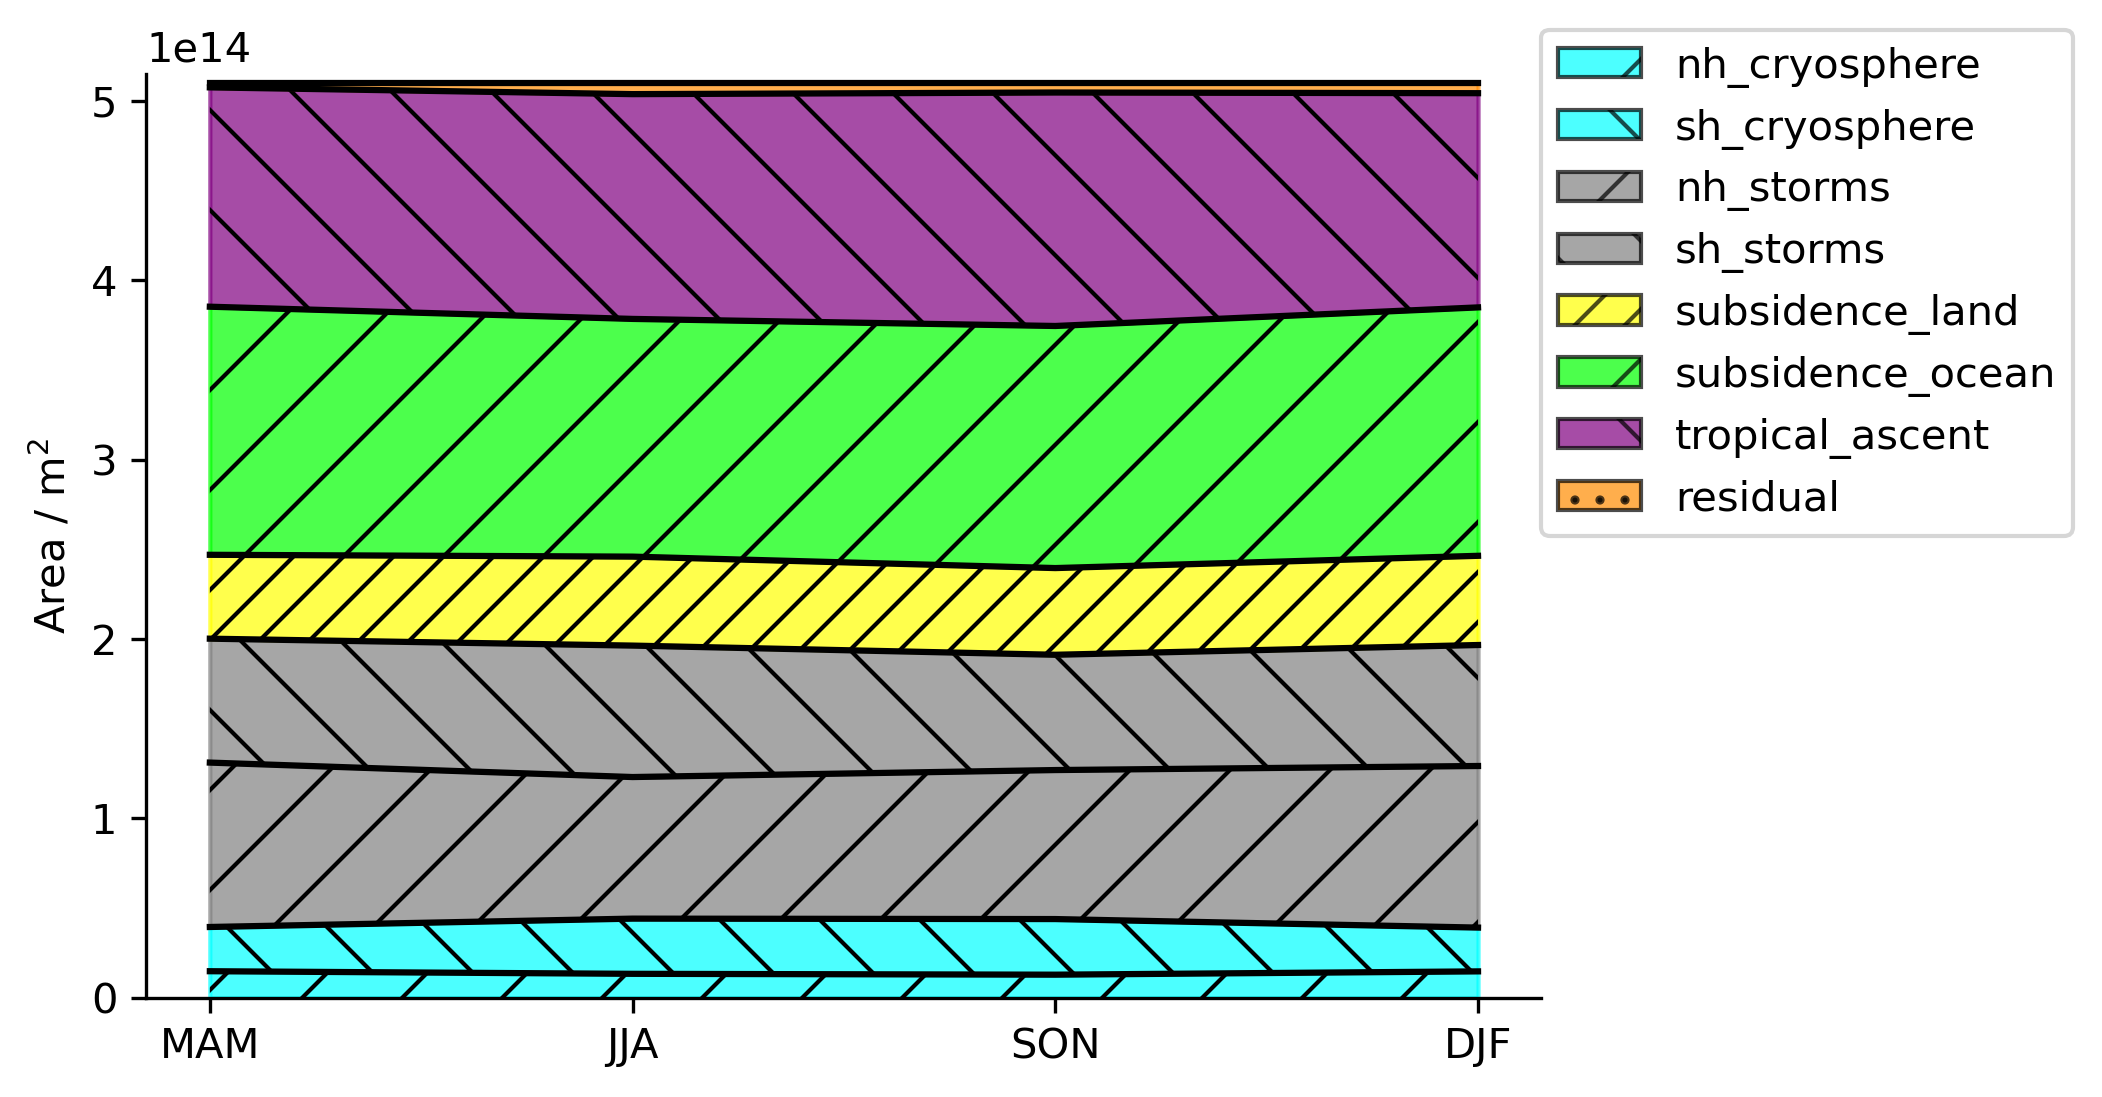
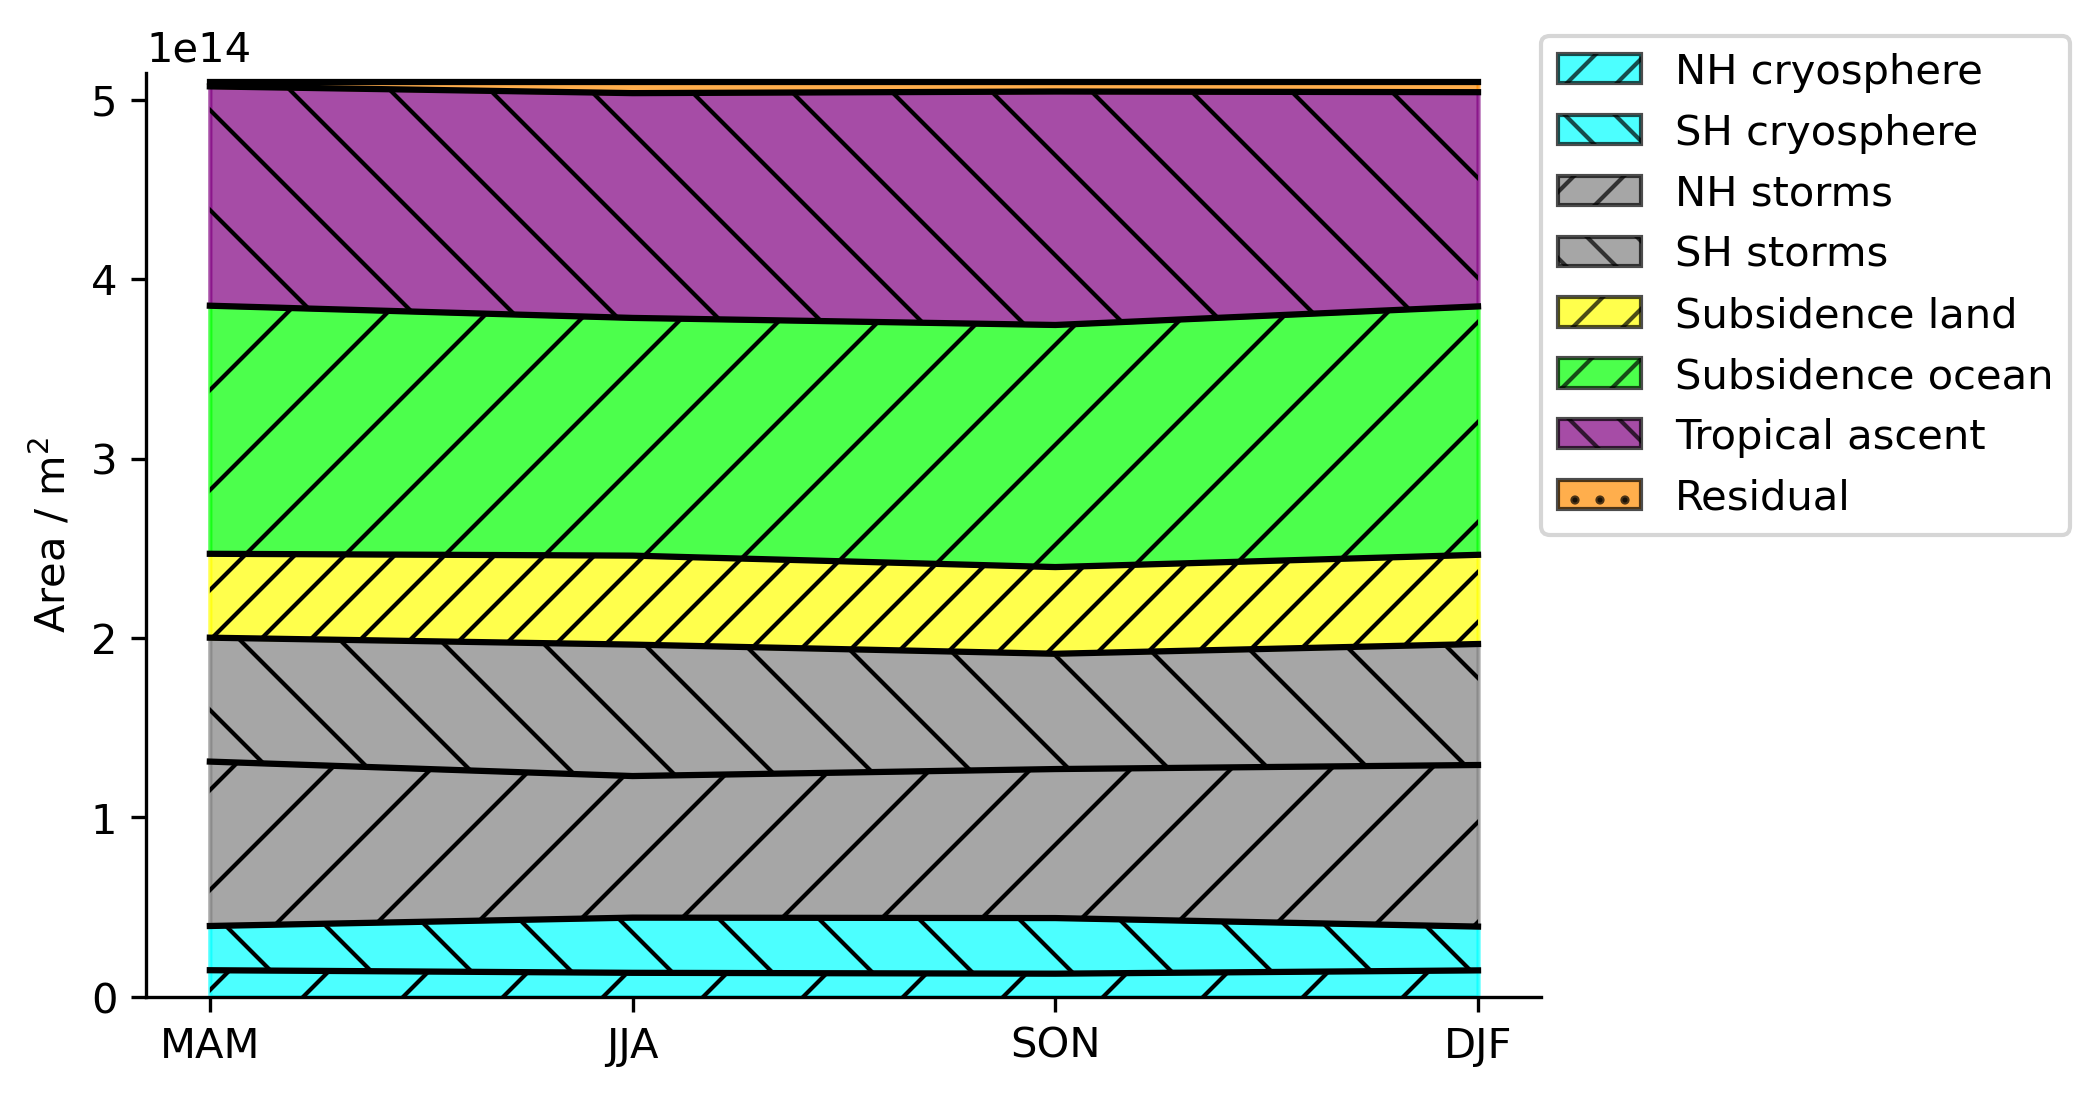
add nice legend to area bar -- propose different masks display

diff --git a/make_figs/masks.py b/make_figs/masks.py
@@ -6,8 +6,8 @@ import cartopy.crs as ccrs
 import matplotlib.patches as mpatches
 
 from utils import global_mean
-from utils.plotting import plot_colormesh, plot_coasts_grid, plot_colorbar
-from utils.plotting import colors, hatches, edge_band
+from utils.plotting import plot_coasts_grid
+from utils.plotting import colors, hatches, edge_band, hatches_legend
 
 
 net = xr.open_mfdataset(["pp/ceres_trends.nc"]).net.load()
@@ -25,14 +25,13 @@ for i,s in enumerate(["MAM","JJA","SON","DJF"]):
     da = net.sel(season=s)
     trend_gm = global_mean(da).values
     
-    cf = plot_colormesh(ax, da)
+    # cf = plot_colormesh(ax, da)
     plot_coasts_grid(ax)
     ax.set_title(letter[i]+") "+s+f" = {trend_gm:0.2f}", position=(0.35, 1.0))
 
     for name in regime_names:
         data = masks[name].sel(season=s).astype(int)
         band = edge_band(data, n=2)
-
         # 1. Colored boundary band (replaces contour)
         ax.contourf(
             data.lon, data.lat, band,
@@ -40,21 +39,14 @@ for i,s in enumerate(["MAM","JJA","SON","DJF"]):
             colors=[colors[name]],
             transform=ccrs.PlateCarree(),
         )
-
-        # 2. Hatched regions with colored hatches
         ax.contourf(
             data.lon, data.lat, data,
             levels=[0.5, 1],
-            colors='none',
-            hatches=[hatches[name]],
+            colors=[colors[name]],
             transform=ccrs.PlateCarree(),
+            alpha=0.2,
         )
-        # trick to color the hatches
-        for collection in ax.collections[-1:]:  # last contourf
-            collection.set_edgecolor(colors[name])
-            collection.set_linewidth(0.0)  # remove polygon edges
     
-plot_colorbar(fig, cf, "Net EEI trend / W m$^{-2}$ dec$^{-1}$", [0.25, -0.05, 0.5, 0.02])
 plt.savefig("figures/eei_seasons_masks.png", dpi=300, facecolor="w", bbox_inches="tight")
 
 
@@ -72,12 +64,14 @@ for v in regime_names:
 # Create legend with colored + hatched patches
 legend_handles = []
 for v in regime_names:
+    r_formatted = v.replace('_',' ').replace("nh","NH").replace("sh","SH")
+    r_formatted = r_formatted[0].upper() + r_formatted[1:]
     patch = mpatches.Patch(
         facecolor=colors[v],
         alpha=0.7,
-        hatch=hatches[v],
+        hatch=hatches_legend[v],
         edgecolor='black',  # optional: outlines the patch
-        label=v
+        label=r_formatted,
     )
     legend_handles.append(patch)
 plt.legend(handles=legend_handles, loc=(1,0.5))
